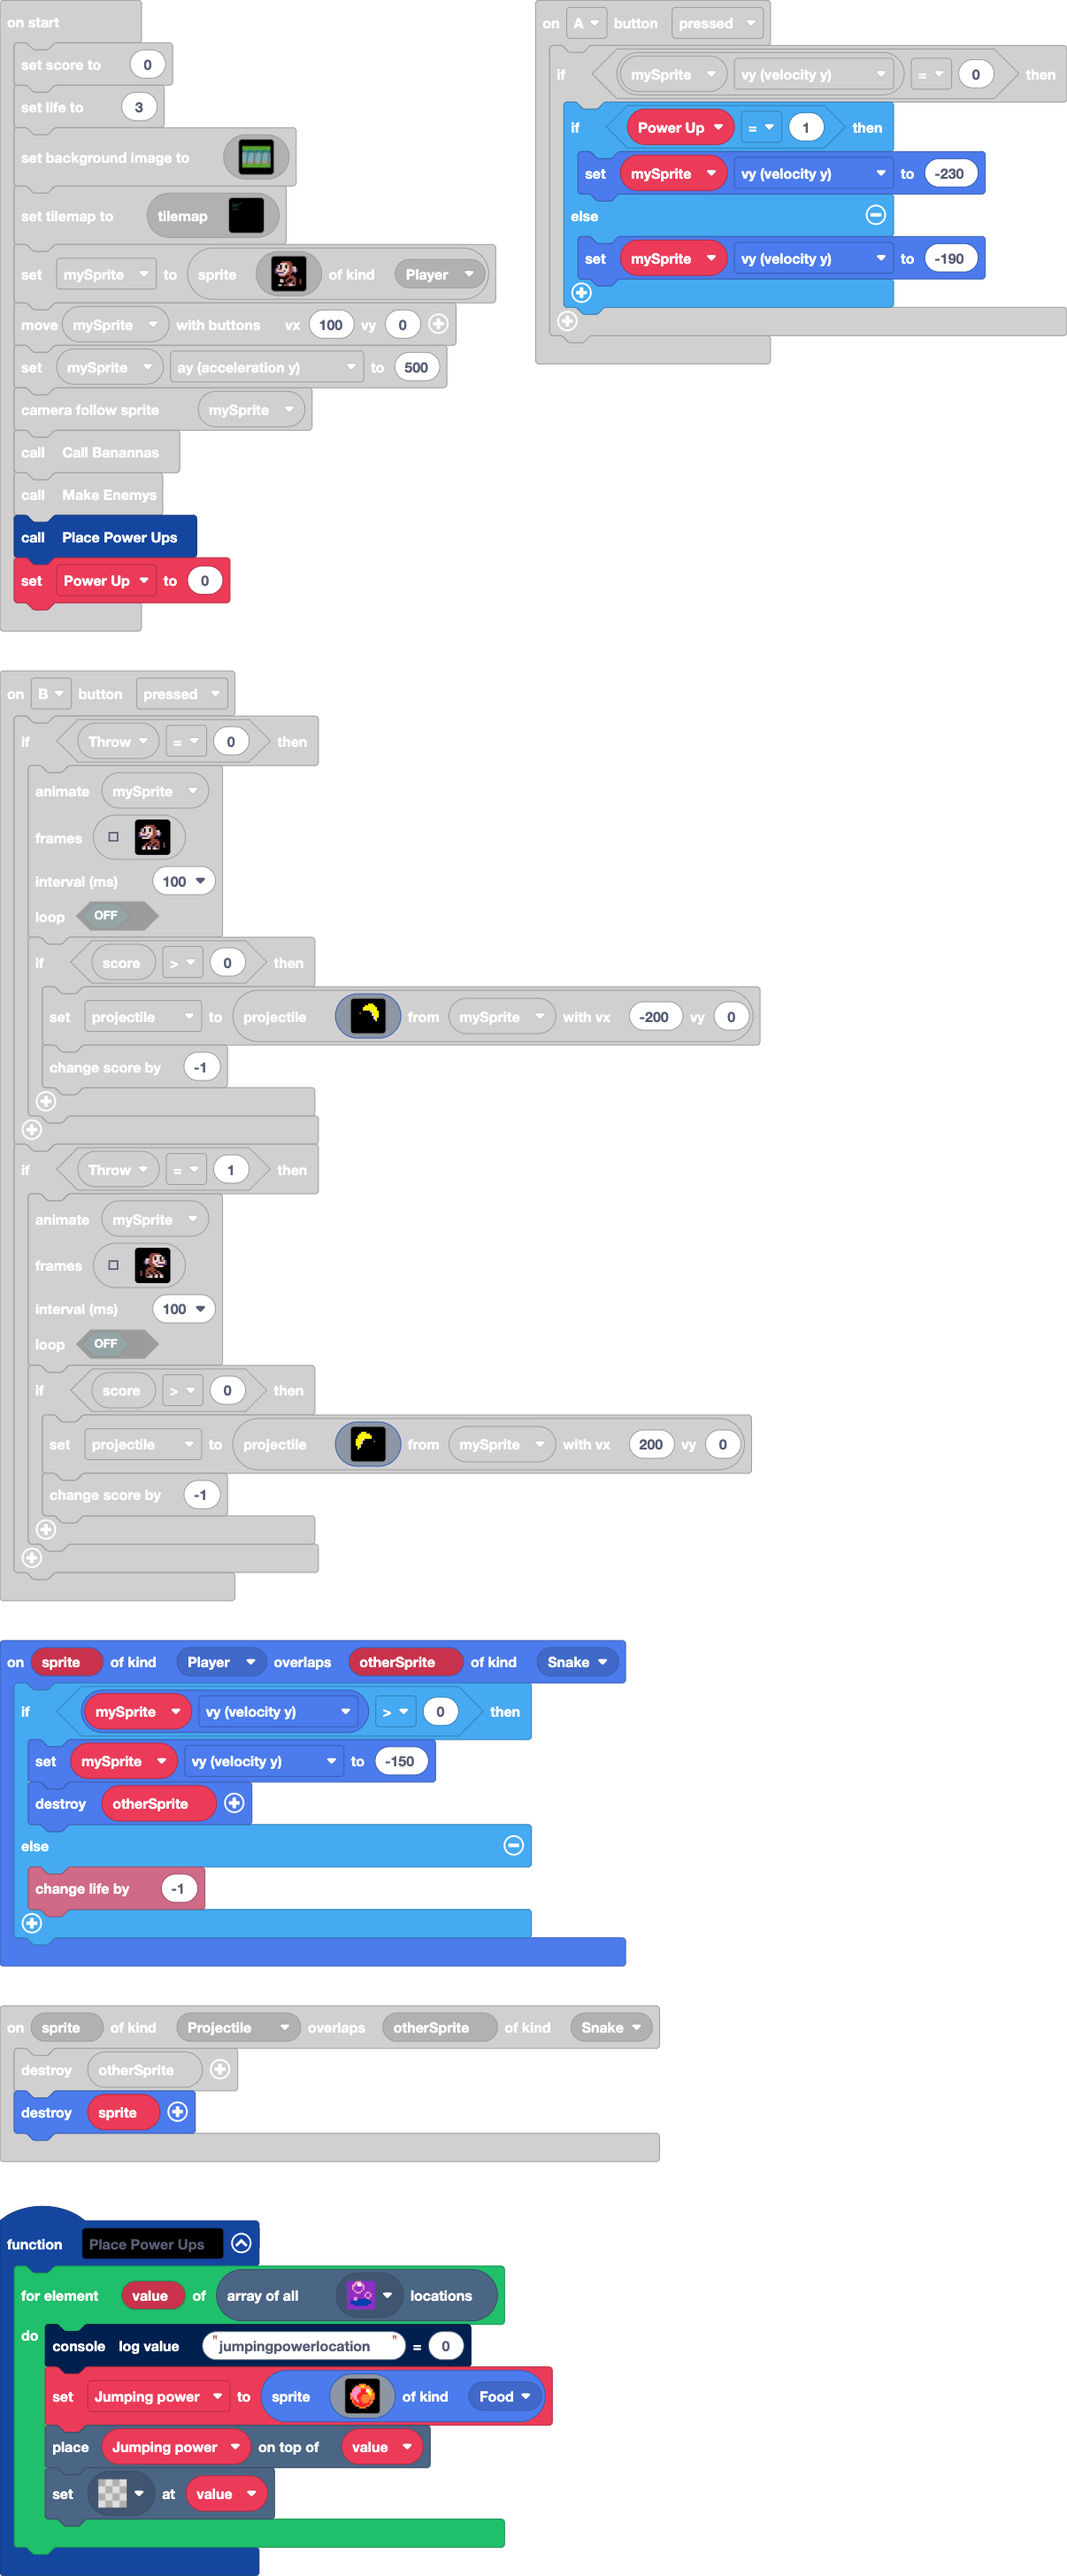
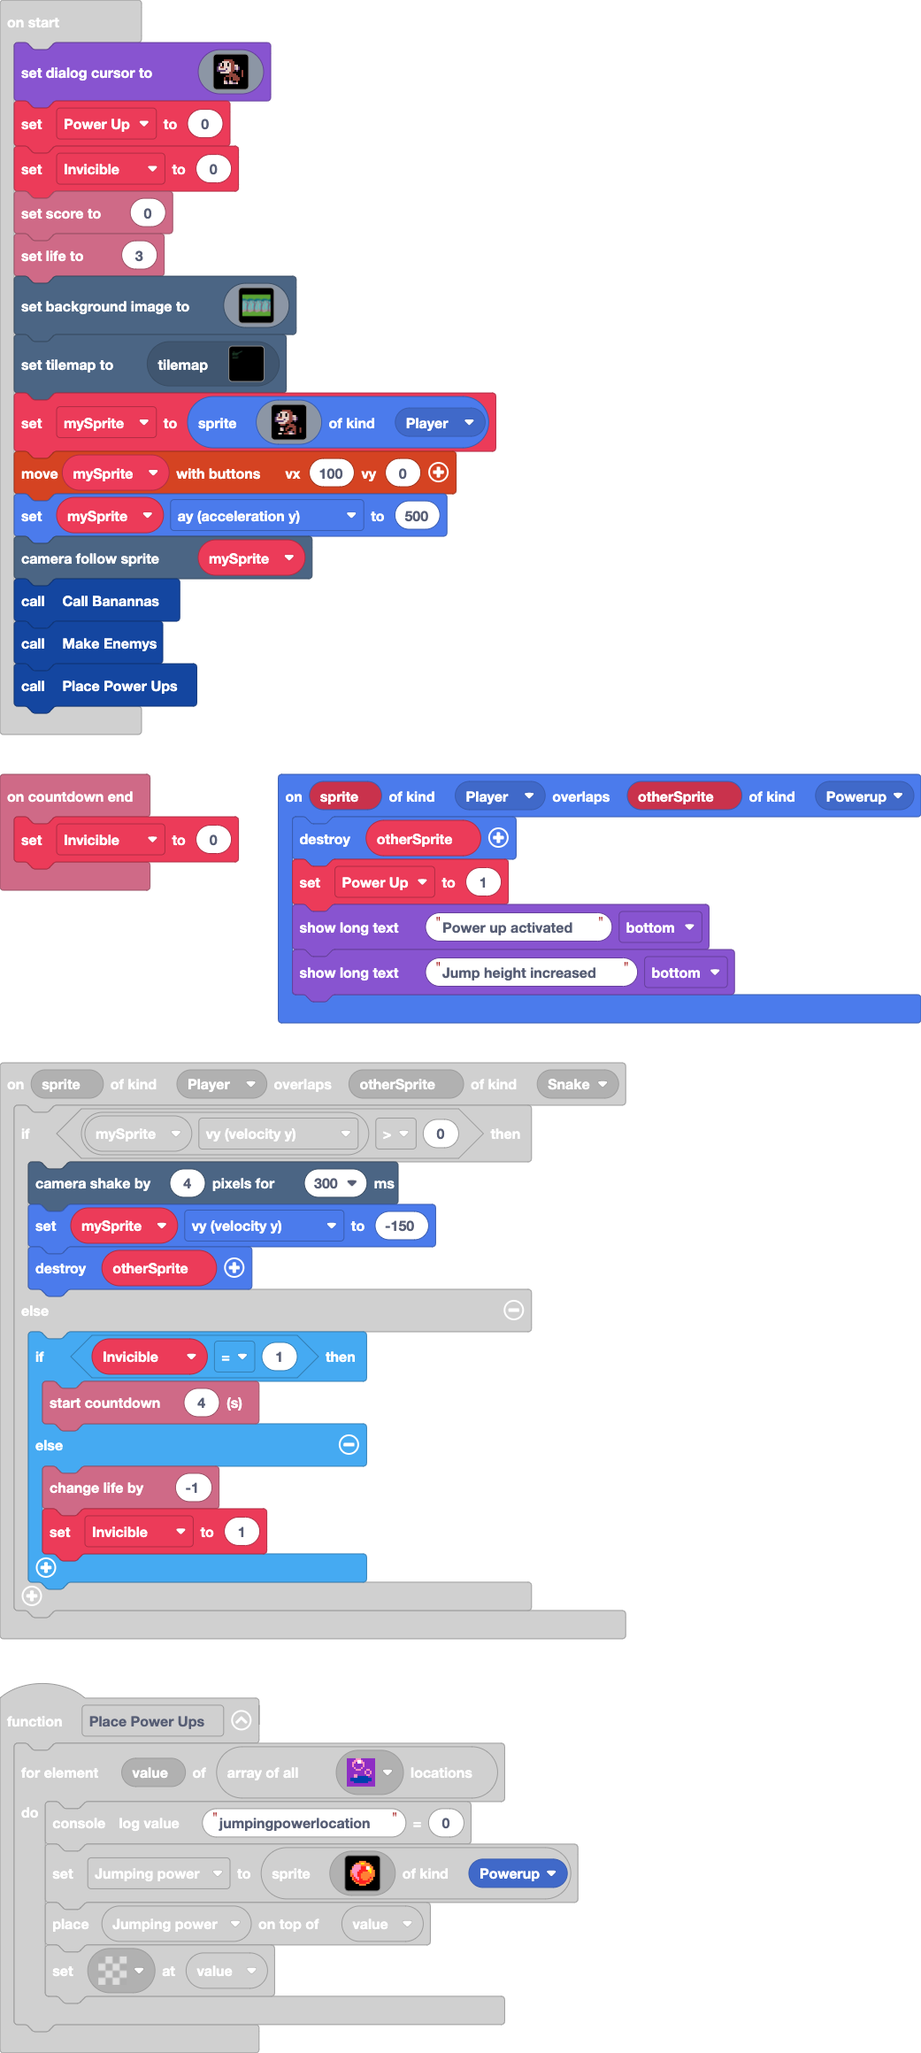
Update main.blocks, main.ts

diff --git a/main.ts b/main.ts
@@ -1,16 +1,29 @@
 namespace SpriteKind {
     export const Snake = SpriteKind.create()
+    export const Powerup = SpriteKind.create()
 }
 sprites.onOverlap(SpriteKind.Player, SpriteKind.Snake, function (sprite, otherSprite) {
     if (mySprite.vy > 0) {
+        scene.cameraShake(4, 300)
         mySprite.vy = -150
         otherSprite.destroy()
     } else {
-        info.changeLifeBy(-1)
+        if (Invicible == 1) {
+            info.startCountdown(4)
+        } else {
+            info.changeLifeBy(-1)
+            Invicible = 1
+        }
     }
 })
 sprites.onCreated(SpriteKind.Enemy, function (sprite) {
     Snake.vy = 100
+})
+sprites.onOverlap(SpriteKind.Player, SpriteKind.Powerup, function (sprite, otherSprite) {
+    otherSprite.destroy()
+    Power_Up = 1
+    game.showLongText("Power up activated", DialogLayout.Bottom)
+    game.showLongText("Jump height increased", DialogLayout.Bottom)
 })
 controller.B.onEvent(ControllerButtonEvent.Pressed, function () {
     if (Throw == 0) {
@@ -429,6 +442,9 @@ controller.left.onEvent(ControllerButtonEvent.Released, function () {
     false
     )
 })
+info.onCountdownEnd(function () {
+    Invicible = 0
+})
 statusbars.onZero(StatusBarKind.Health, function (status) {
     Snake.destroy()
 })
@@ -641,7 +657,7 @@ function Place_Power_Ups () {
             . . . . 4 4 2 2 2 2 4 4 . . . . 
             . . . . . . 4 4 4 4 . . . . . . 
             . . . . . . . . . . . . . . . . 
-            `, SpriteKind.Food)
+            `, SpriteKind.Powerup)
         tiles.placeOnTile(Jumping_power, value)
         tiles.setTileAt(value, assets.tile`transparency16`)
     }
@@ -655,8 +671,29 @@ let Bananna: Sprite = null
 let projectile: Sprite = null
 let Throw = 0
 let Snake: Sprite = null
-let Power_Up = 0
 let mySprite: Sprite = null
+let Invicible = 0
+let Power_Up = 0
+game.setDialogCursor(img`
+    . . . . f f f f f . . . . . . . 
+    . . . f e e e e e f . . . . . . 
+    . . f d d d d e e e f . . . . . 
+    . c d f d d f d e e f f . . . . 
+    . c d f d d f d e e d d f . . . 
+    c d e e d d d d e e b d c . . . 
+    c d d d d c d d e e b d c . f f 
+    c c c c c d d d e e f c . f e f 
+    . f d d d d d e e f f . . f e f 
+    . . f f f f f e e e e f . f e f 
+    . . . . f e e e e e e e f f e f 
+    . . . f e f f e f e e e e f f . 
+    . . . f e f f e f e e e e f . . 
+    . . . f d b f d b f f e f . . . 
+    . . . f d d c d d b b d f . . . 
+    . . . . f f f f f f f f f . . . 
+    `)
+Power_Up = 0
+Invicible = 0
 info.setScore(0)
 info.setLife(3)
 scene.setBackgroundImage(img`
@@ -806,7 +843,6 @@ scene.cameraFollowSprite(mySprite)
 Call_Banannas()
 Make_Enemys()
 Place_Power_Ups()
-Power_Up = 0
 game.onUpdate(function () {
     for (let value of sprites.allOfKind(SpriteKind.Snake)) {
         if (value.isHittingTile(CollisionDirection.Left)) {
